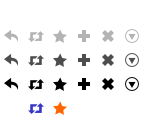
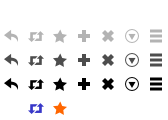
fixed #154

diff --git a/data/js/ui.main.js b/data/js/ui.main.js
@@ -804,27 +804,22 @@ function on_del_click(btn, li_id, event) {
     var id = (li.attr('retweet_id') == '' || li.attr('retweet_id') == undefined) ? li.attr('tweet_id'): li.attr('retweet_id');
 
     toast.set('Destroy ...').show(-1);
-    globals.twitterClient.destroy_status(id,
-    function (result) {
-        ui.Main.unbind_tweet_action(li_id);
-        li.remove();
-        toast.set(_('destroy_successfully')).show();
-    });
+    if (li.attr('type') === 'message') {
+        globals.twitterClient.destroy_direct_messages(id,
+        function (result) {
+            ui.Main.unbind_tweet_action(li_id);
+            li.remove();
+            toast.set(_('destroy_successfully')).show();
+        });
+    } else {
+        globals.twitterClient.destroy_status(id,
+        function (result) {
+            ui.Main.unbind_tweet_action(li_id);
+            li.remove();
+            toast.set(_('destroy_successfully')).show();
+        });
+    }
 },
-
-on_dm_delete_click:
-function on_dm_delete_click(btn, li_id, event) {
-    var li = $(li_id);
-    var id = li.attr('tweet_id');
-    toast.set('Destroy ...').show(-1);
-    globals.twitterClient.destroy_direct_messages(id,
-    function (result) {
-        ui.Main.unbind_tweet_action(li_id);
-        li.remove();
-        toast.set(_('destroy_successfully')).show();
-    });
-},
-
 
 on_fav_click:
 function on_fav_click(btn, li_id, event) {
@@ -1105,7 +1100,7 @@ function openTweetMoreMenu(li, btn) {
     break;
     }
     // deletable?
-    if (li.attr('deletable') == 'true') {
+    if (li.attr('deletable') === 'true' || li.attr('type') === 'message') {
         $('#tweet_del_btn').parent().css('display', 'block');
     } else {
         $('#tweet_del_btn').parent().css('display', 'none');

diff --git a/data/js/ui.template.js b/data/js/ui.template.js
@@ -143,8 +143,6 @@ message_t:
         <li>\
         <a class="tweet_bar_btn tweet_dm_reply_btn" title="Reply them" href="#reply_dm" data-i18n-title="reply"></a>\
         </li><li>\
-        <a class="tweet_bar_btn tweet_dm_delete_btn" title="Delete" href="#delete" data-i18n-title="delete"></a>\
-        </li><li>\
         <a class="tweet_bar_btn tweet_more_menu_trigger" href="#more"></a>\
         </li>\
     </ul>\
@@ -209,7 +207,9 @@ people_t:
     <div class="profile_img_wrapper" title="{%USER_NAME%}" style="background-image: url({%PROFILE_IMG%})">\
     </div>\
     <ul class="tweet_bar">\
-        <li>\
+        <li style="display:none;">\
+        <a class="tweet_bar_btn add_to_list_btn" title="Add to list" href="#follow" data-i18n-title="add_to_list"></a>\
+        </li><li>\
         <a class="tweet_bar_btn follow_btn" title="Follow them" href="#follow" data-i18n-title="follow"></a>\
         </li><li>\
         <a class="tweet_bar_btn unfollow_btn" title="Unfollow them" href="#unfollow" data-i18n-title="unfollow"></a>\

diff --git a/data/js/ui.add_to_list_dlg.js b/data/js/ui.add_to_list_dlg.js
@@ -26,10 +26,10 @@ function load(name) {
         globals.twitterClient.create_list_member(
             id, name,
             function () {
-                toast.set('Add @' + name + ' to List.'); 
+                toast.set('Add @' + name + ' to List.').show(); 
             },
             function () {
-                toast.set('Failed to add @' + name + ' to List.'); 
+                toast.set('Failed to add @' + name + ' to List.').show(); 
             });
         globals.add_to_list_dialog.close();
     });

diff --git a/data/css/style.css b/data/css/style.css
@@ -972,6 +972,10 @@ label {
 .tweet_dm_delete_btn {
 	background-position-x: -96px;
 }
+.add_to_list_btn {
+	background-position-x: -96px;
+	display: inline-block;
+}
 .follow_btn {
 	background-position-x: -72px;
 	display: inline-block;
